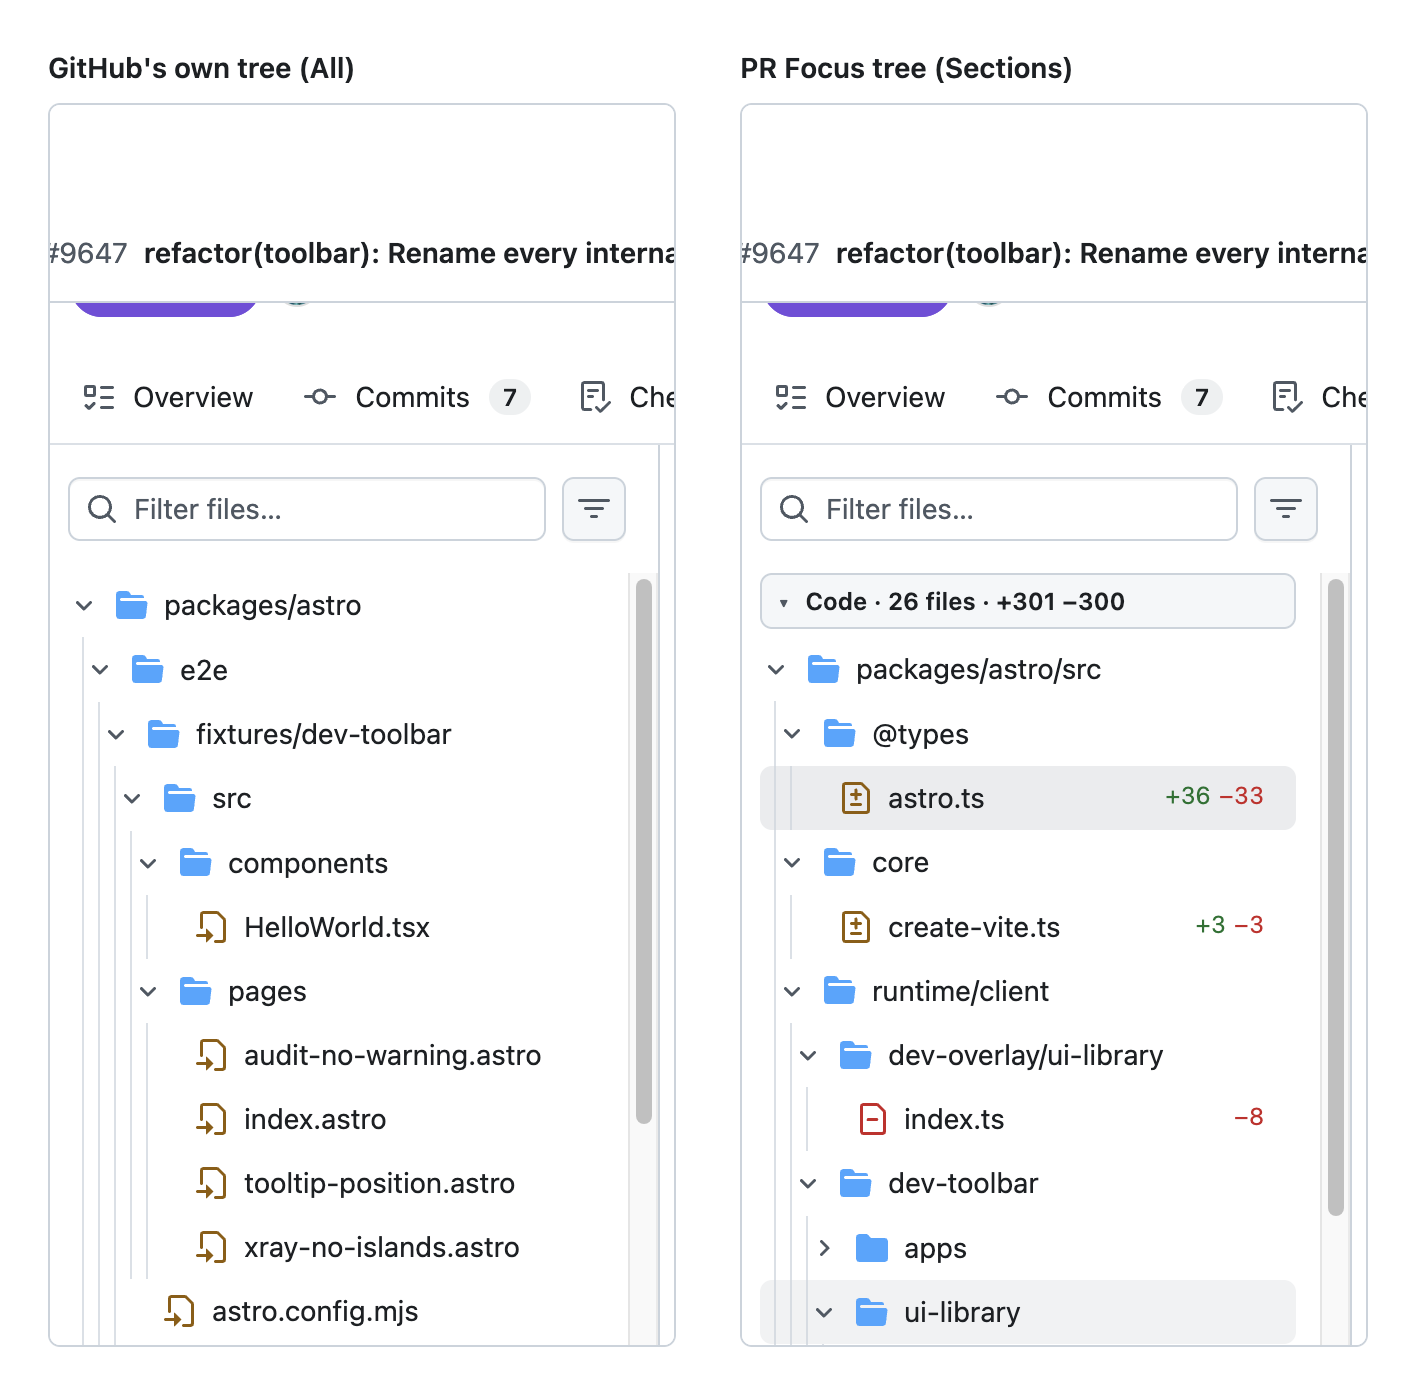
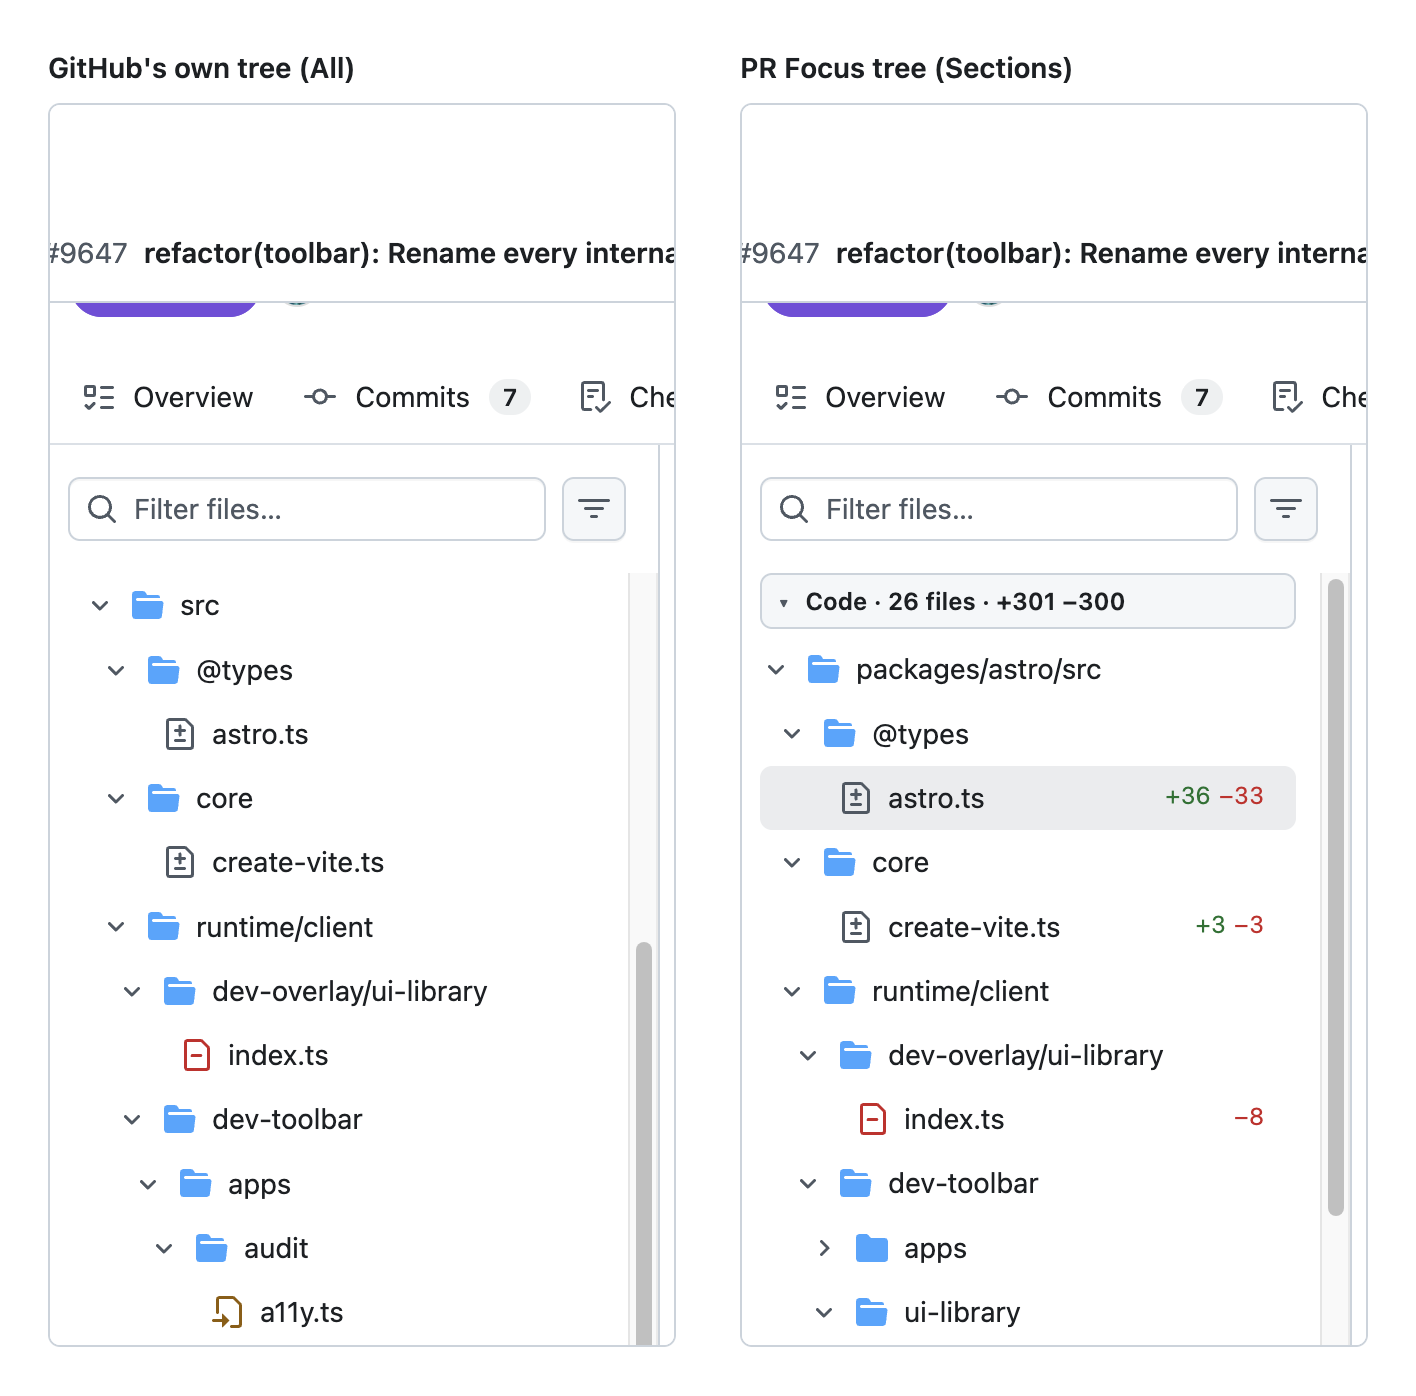
fix: file status in the colors of GitHub's own tree
A changed file is gray and a renamed one amber, as GitHub's React tree
draws them. Rows copied from that tree already have those colors; the two
rules now put the plain rows of the older view in the same ones.

Screenshots 3 to 5 and the comparison with GitHub's tree are retaken.

diff --git a/src/content.css b/src/content.css
@@ -148,14 +148,14 @@ html:has([data-pr-focus-section="custom"][data-pr-focus-collapsed]) [data-pr-foc
 .pr-focus-files-deleted {
   color: var(--fgColor-danger, #d1242f);
 }
-/* A file's icon says how the file changed. It is GitHub's own icon. Added is green and deleted red, as GitHub
-   draws them. A changed file is amber and a renamed one gray, as in GitHub's older tree: its React tree has those
-   two the other way round, gray for the change and amber for the rename. */
+/* A file's icon says how the file changed, in the colors of GitHub's React tree: added green, changed gray,
+   deleted red, renamed amber. A row copied from that tree already has them. A plain row carries the icon of
+   GitHub's older tree, which has changed amber and renamed gray, so these two rules put it in the same colors. */
 .pr-focus-files [data-pr-focus-status="modified"] > div svg {
-  color: var(--fgColor-attention, #9a6700) !important;
+  color: var(--fgColor-muted, #59636e) !important;
 }
 .pr-focus-files [data-pr-focus-status="renamed"] > div svg {
-  color: var(--fgColor-muted, #59636e) !important;
+  color: var(--fgColor-attention, #9a6700) !important;
 }
 .pr-focus-files [data-viewed] a,
 .pr-focus-files [data-viewed] svg {

diff --git a/README.md b/README.md
@@ -33,7 +33,7 @@ In **Sections**:
   - a chevron on each folder opens and closes it, and the open and closed folders are kept for each pull request while the tab lives,
   - GitHub's folder icons, the same row height, indentation and indent lines, hover color, and light and dark themes,
   - a chain of folders with nothing else in them is one row (`packages/vite/src/node/__tests__`), as in GitHub's tree,
-  - each file's icon is GitHub's own icon for how the file changed: added in green, changed in amber, deleted in red, renamed in gray. A renamed file shows its new name, and the row's tooltip says the path and the change,
+  - each file's icon is GitHub's own icon for how the file changed, in the colors of GitHub's tree: added in green, changed in gray, deleted in red, renamed in amber. A renamed file shows its new name, and the row's tooltip says the path and the change,
   - the file the page is at is marked, and the mark follows the scroll (GitHub's own tree only marks a file you clicked),
   - each file shows its added and removed lines, which GitHub's tree does not,
   - a click on a file goes through GitHub's own link, so the page moves as it does from GitHub's tree.
@@ -140,7 +140,7 @@ When you load the unpacked folder for development, switch off any other copy of 
 - **Our file list depends on where GitHub's tree is.** It is found through `ul[aria-label="File Tree"]`. When GitHub's tree is not on the page (you closed the file tree panel), there is no list, and the diff is still in sections.
 - **Our tree is copied from GitHub's rows.** A row of ours is a copy of a row of GitHub's tree, found through Primer's unhashed class names (`PRIVATE_TreeView-item-container`, `-toggle`, `-visual`, `-content-text`, `-level-line`). GitHub's styles then draw it. If GitHub renames those, or in the older files view, the same tree is drawn plainly by `content.css`: chevrons, folding, the mark and the status icons work, folder icons and indent lines are missing.
 - **Where our tree differs from GitHub's.** The arrow keys do not move through it: Tab reaches each row, and Enter or Space opens a folder or goes to a file. The list does not scroll by itself to keep the marked file in view. A closed folder's icon is GitHub's closed folder icon, set by its path, because GitHub's tree only holds the icon of the state a folder is in.
-- **Status colors are not GitHub's in two cases.** A file's change is read from the icon GitHub's tree draws for it. GitHub's React tree draws a changed file gray and a renamed one amber. Here a changed file is amber and a renamed one gray, as in GitHub's older tree. Two rules in `content.css` do that.
+- **Status is read from GitHub's icons.** A file's change is read from the icon GitHub's tree draws for it (`octicon-file-added`, `-diff`, `-removed`, `-moved`; in the older view `octicon-diff-added`, `-modified`, `-removed`, `-renamed`). If GitHub renames those, the icon stays but the tooltip no longer names the change. The older view's icons come in that tree's colors (changed amber, renamed gray), and two rules in `content.css` put them in the React tree's colors.
 - **Sections changes what you see, not GitHub's order.** GitHub's own next and previous file keys and the tab order in the diff follow GitHub's order, so they jump between sections.
 - **Folded sections are not remembered.** They open again when the tab reloads. The mode is remembered.
 - **Viewed is read from the newer view only.** The older view's Viewed checkbox is not read. Viewed state was checked by setting the button's state in the page, not by marking a real file as viewed.
